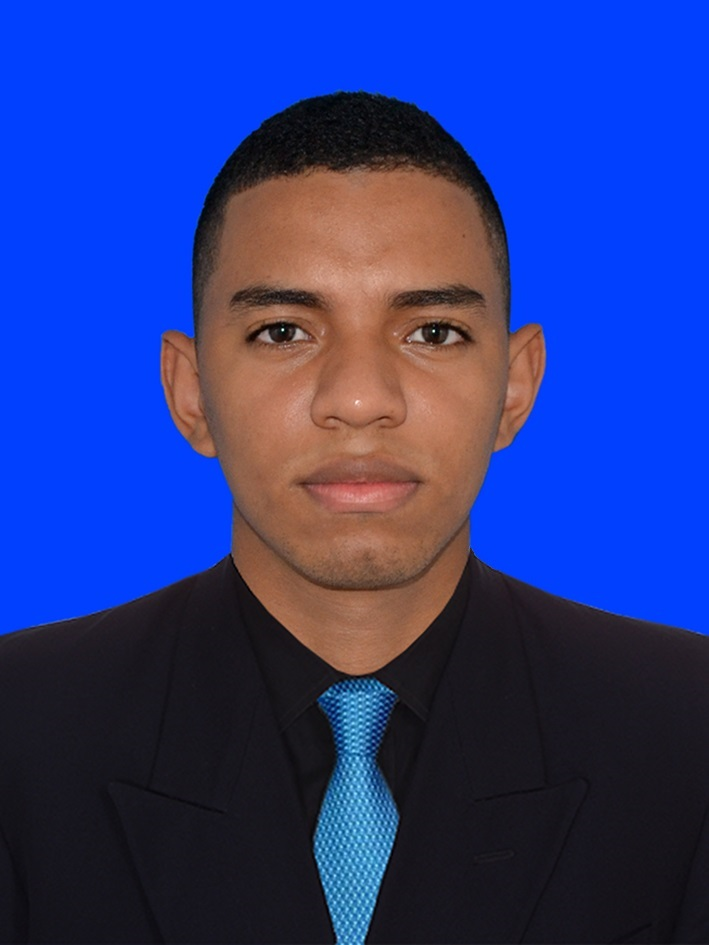
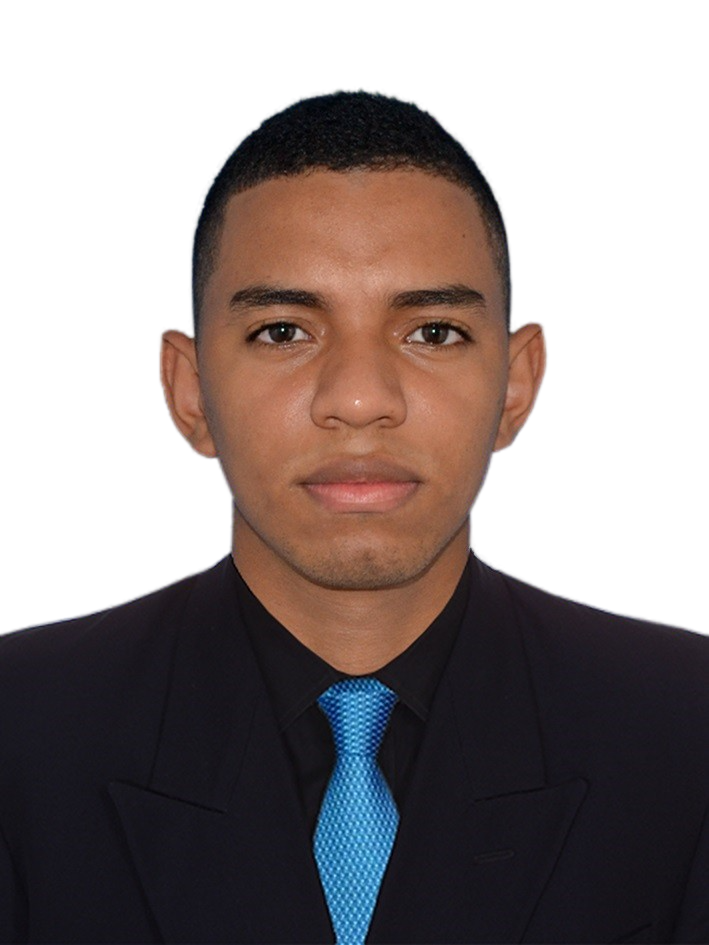
poniendole fondo oscuro que combina a la foto

diff --git a/index.html b/index.html
@@ -42,7 +42,7 @@
         <div class="d-flex flex-column">
 
             <div class="profile">
-                <img alt="" class="img-fluid rounded-circle" src="assets/img/profile-img.png">
+                <img alt="" class="img-fluid rounded-circle profile-img" src="assets/img/profile-img.png">
                 <h1 class="text-light"><a href="index.html">Dilan Gonzalez</a></h1>
                 <h2 class="text-light">@Digovil</h2>
 
@@ -97,7 +97,7 @@
 
                 <div class="row">
                     <div class="col-lg-4" data-aos="fade-right">
-                        <img alt=""  class="img-fluid" src="assets/img/profile-img.png">
+                        <img alt=""  class="img-fluid profile-img" src="assets/img/profile-img.png">
                     </div>
                     <div class="col-lg-8 pt-4 pt-lg-0 content" data-aos="fade-left">
                         <h3>INFORMACIÓN PERSONAL</h3>
@@ -120,13 +120,13 @@
                         </div>
                         <h3>¿QUÉ SE HACER?</h3>
                         <p class="font-italic">
-                            Gracias a mi formación en la Escuela de Ingeniería Informática del Software en la Universidad de Oviedo y a varios cursos que realizo de forma autónoma he adquirido una serie de competencias como son:
+                            Gracias a mi formación en la Universidad de La Guajira y a varios cursos que realizo de forma autónoma he adquirido una serie de competencias como son:
                         </p>
                         <div class="row">
                             <div class="col-lg-6">
                                 <ul>
                                     <li><i class="icofont-rounded-right"></i> Desarrollo de aplicaciones Web</li>
-                                    <li><i class="icofont-rounded-right"></i> Machine Learning</li>
+                                    <li><i class="icofont-rounded-right"></i> Automatización & Tester</li>
                                     <li><i class="icofont-rounded-right"></i> Desarrollo de aplicaciones de escritorio</li>
                                 </ul>
                             </div>
@@ -134,7 +134,6 @@
                                 <ul>
                                     <li><i class="icofont-rounded-right"></i> Seguridad Web</li>
                                     <li><i class="icofont-rounded-right"></i> Desarrollo de aplicaciones móviles</li>
-                                    <li><i class="icofont-rounded-right"></i> Desarrollo de aplicaciones Blockchain</li>
                                 </ul>
                             </div>
                         </div>

diff --git a/assets/css/style.css b/assets/css/style.css
@@ -26,7 +26,9 @@ h6 {
     font-family: "Raleway", sans-serif;
 }
 
-
+.profile-img {
+    background-color: #173B6C !important;
+}
 /*--------------------------------------------------------------
 # Back to top button
 --------------------------------------------------------------*/
